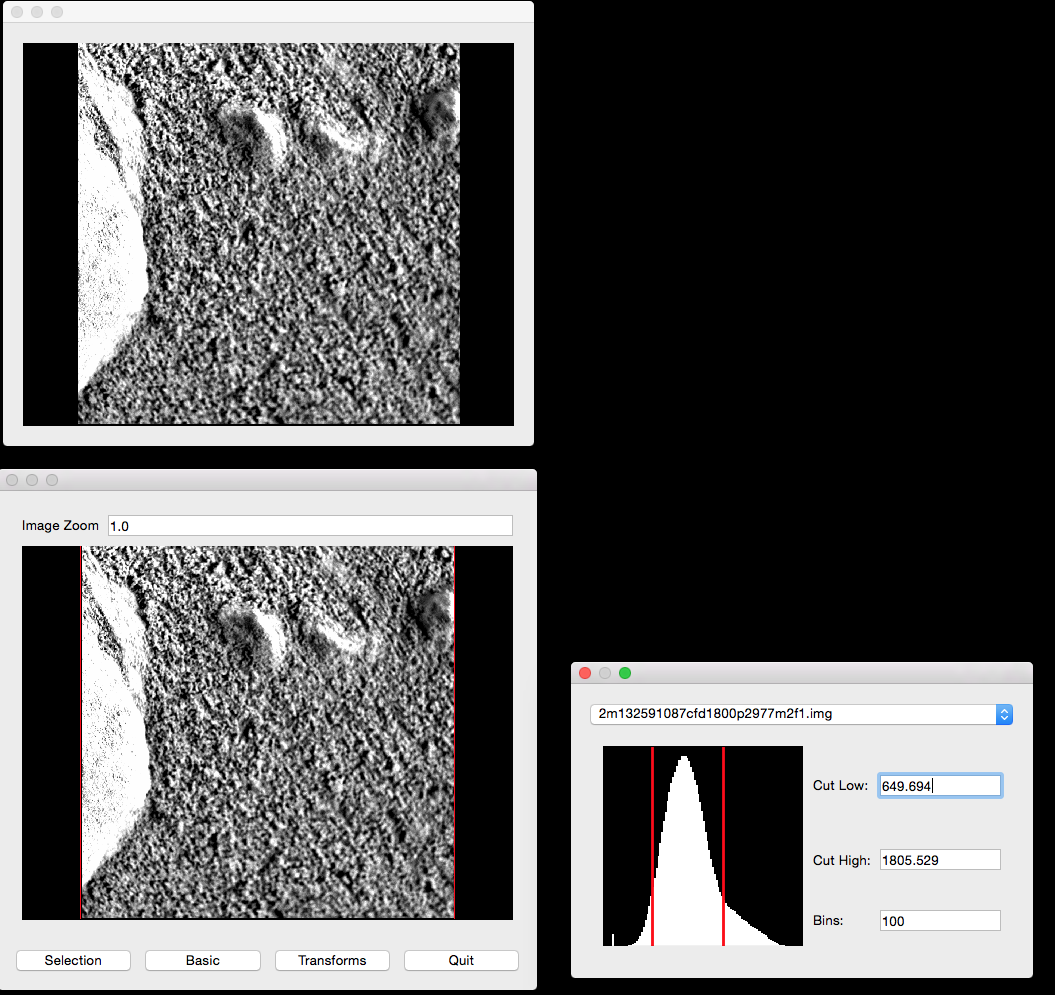
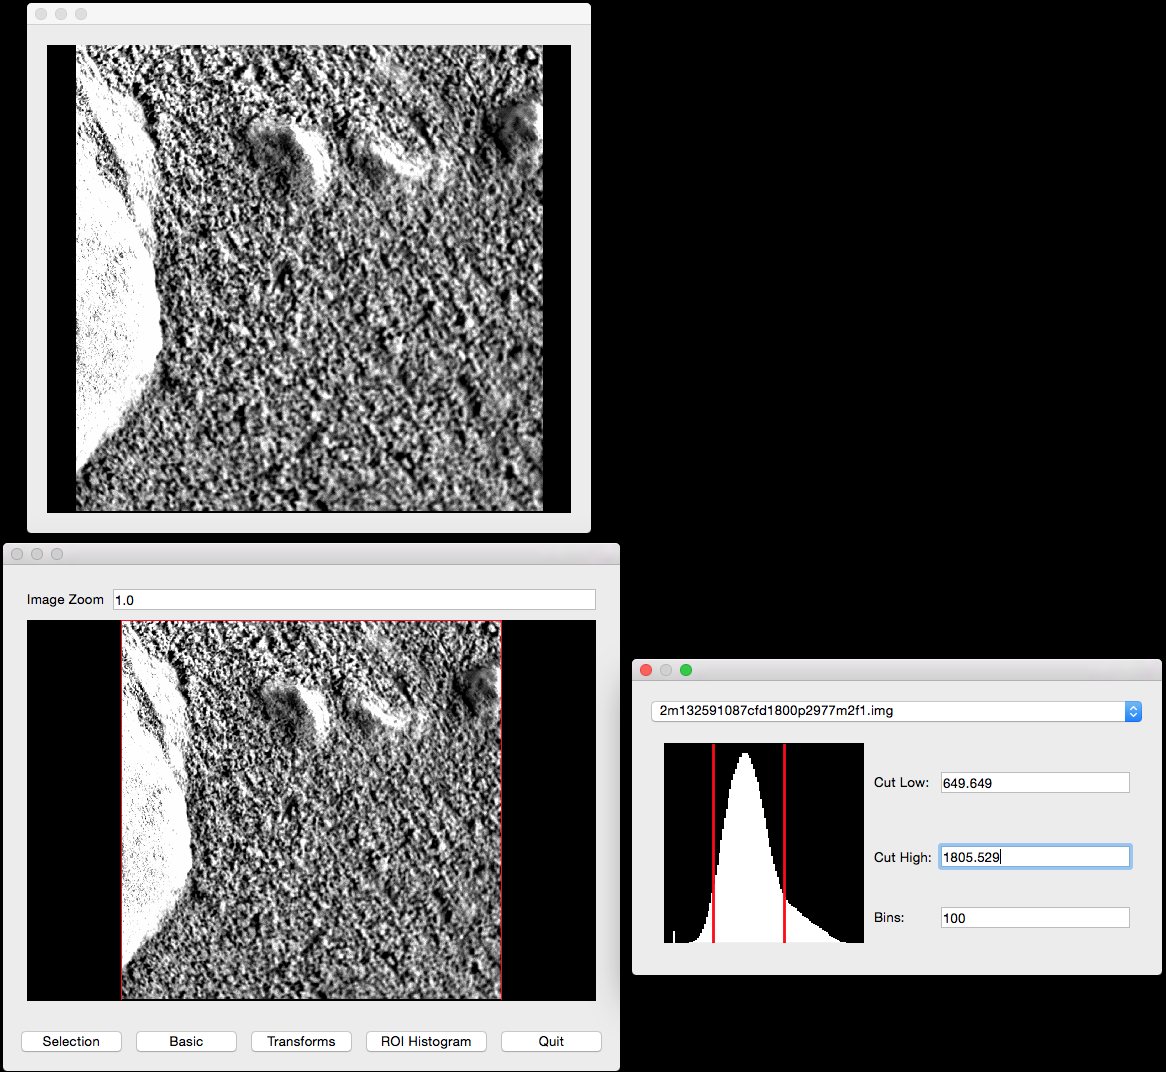
Update README tutorial to include ROI Histogram

diff --git a/README.rst b/README.rst
@@ -139,6 +139,22 @@ Window``:
 
 .. image:: screenshots/Opacity.png
 
+You can view the data within the ROIs with the ``ROI Histogram`` window. Open
+the window by pressing the ``ROI Histogram`` button in the main viewer.
+
+.. image:: screenshots/blank_histogram.png
+
+Display the data in the ROI by color by checking the checkbox next to the
+color:
+
+.. image:: screenshots/red_hist.png
+
+Overlay ROIs by checking other boxes. The order (depth) of the histogram data
+will be in the order that the user checks the boxes (i.e., checking red and
+then purple will result in purple overlaying the red):
+
+.. image:: screenshots/red_purple_hist.png
+
 Note that when opening multiple images at the same time, it is best practice
 that they are all the same shape. Otherwise the images will have the smallest
 common shape and not look as expected (i.e., If when loading two images where
